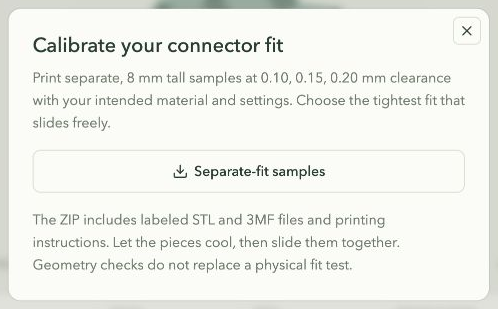
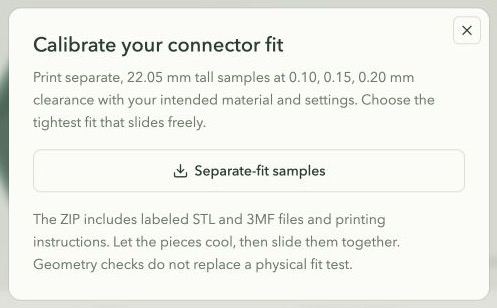
Going back to full-height calibration print

diff --git a/lib/model/calibration.ts b/lib/model/calibration.ts
@@ -14,13 +14,13 @@ import { GeometryEngine } from './geometry';
 import { exportSTL, export3MF } from './export';
 import { PRINT_PART_GAP } from './print-layout';
 /**
- * Crops a validated short north/south joint into two 8 mm tall fit strips.
- * Only straight rail length is shortened; XY fit, back, square rail end and stop match the full pod.
+ * Crops a validated north/south joint into two narrow, full-height fit strips.
+ * Connector length, XY fit, back, square rail end and stop match the full pod.
  * @param engine Shared engine; borrowed variants are not deleted by this function.
  * @param clearances Wall, connector and front-stop spacings to test (mm).
  * @returns Assembled source coupons with cropped coordinates baked in. Both exporters
  * space these bodies apart on the bed; source geometry keeps the original mating pose.
- * Inherited gap/timing fields describe the shortened source pair, not the full-depth pods.
+ * Inherited gap/timing fields describe the full-depth source pair before its XY crop.
  * @throws If the source pair is invalid or cropping fails to produce material.
  */
 export function makeCalibration(
@@ -36,8 +36,8 @@ export function makeCalibration(
   };
   const original = engine.generate(config, CALIBRATION_HEIGHT);
   if (original.errors.length) throw new Error(original.errors.join(' '));
-  // Build the shorter joint before cropping XY; simply chopping a full pod
-  // at Z=8 would discard the rail end and front stop that calibration must test.
+  // Crop only in XY. Keeping the full print height reproduces the connector's
+  // actual contact length and any dimensional variation accumulated along Z.
   const baseBox = engine.api.Manifold.cube([
     14,
     8 + clearances.wallGap,
@@ -118,7 +118,7 @@ export function calibrationZip(
     files[`${name}.3mf`] = export3MF(sample.result, sample.config);
   }
   files['READ-ME.txt'] = strToU8(
-    `HONEYCOMB T-SLOT V2 CALIBRATION\n\nHeight above the bed: ${CALIBRATION_HEIGHT} mm. Square bed edges: full female lips and backing start at Z=0, with no bottom bevel or rail-tip taper. The straight rail is shortened; connector cross-section, back thickness, square rail end and front stop match the pods. This is a quick assembly/fit check, not a test of full-length sliding friction.\n\nThe filename identifies connector clearance per mating surface: ${CALIBRATION_FITS.map((fit) => fit.toFixed(2)).join(', ')} mm. Print one labeled file at a time to keep samples identified.\n\nWall gap: ${config.clearances.wallGap.toFixed(2)} mm. Front-stop clearance: ${config.clearances.axial.toFixed(2)} mm.\n\nUse the printer, material, nozzle and layer profile intended for your display. Print flat backs on the bed, all layers together, supports OFF. Preserve all component positions. Do not use automatic gap closing or merge separate bodies. Compensate elephant foot as appropriate for your calibrated slicer profile.\n\nThe two strips print ${PRINT_PART_GAP} mm apart. After cooling, slide the female strip over the square end of the male rail until their fronts align.\n\nThese are sliding T-slot v2 joints using the original 2 mm walls, with 0.55 mm lips and a thicker head. Print BOTH parts from this revision; do not mix them with v1 T-slots or earlier dovetails. Classic and Arachne have been digitally checked with a 0.4 mm nozzle, 0.20 mm layers, 0.42 mm outer and 0.45 mm inner walls. No thin-wall detection is required in that reference profile. Check that your sliced lips, head and backing remain continuous; other nozzle/line widths need their own check. Start with the separate-fit 0.15 mm pair. Assemble after cooling and check sideways retention while fully engaged. There is no snap latch. Print-in-place is no longer the supported workflow.\n\nChoose the smallest clearance that releases and slides comfortably without tools. Do not force a binding joint. Repeat assembly several times and check for cracking or excessive looseness. Apply the chosen settings to BOTH single pods and assemblies.\n\nThese are geometry-validated starting points, not a claim of physical validation on your printer. STL uses millimeters; 3MF preserves the separate parts and positions.\n`,
+    `HONEYCOMB T-SLOT V2 CALIBRATION\n\nHeight above the bed: ${CALIBRATION_HEIGHT} mm, matching a full pod. Square bed edges: full female lips and backing start at Z=0, with no bottom bevel or rail-tip taper. Connector contact length, cross-section, back thickness, square rail end and front stop match the pods; only the surrounding hexagon walls are cropped to narrow strips. This makes the sample slower than the former short coupon, but gives a representative full-length sliding-friction test.\n\nThe filename identifies connector clearance per mating surface: ${CALIBRATION_FITS.map((fit) => fit.toFixed(2)).join(', ')} mm. Print one labeled file at a time to keep samples identified.\n\nWall gap: ${config.clearances.wallGap.toFixed(2)} mm. Front-stop clearance: ${config.clearances.axial.toFixed(2)} mm.\n\nUse the printer, material, nozzle and layer profile intended for your display. Print flat backs on the bed, all layers together, supports OFF. Preserve all component positions. Do not use automatic gap closing or merge separate bodies. Compensate elephant foot as appropriate for your calibrated slicer profile.\n\nThe two strips print ${PRINT_PART_GAP} mm apart. After cooling, slide the female strip over the square end of the male rail until their fronts align.\n\nThese are sliding T-slot v2 joints using the original 2 mm walls, with 0.55 mm lips and a thicker head. Print BOTH parts from this revision; do not mix them with v1 T-slots or earlier dovetails. Classic and Arachne have been digitally checked with a 0.4 mm nozzle, 0.20 mm layers, 0.42 mm outer and 0.45 mm inner walls. No thin-wall detection is required in that reference profile. Check that your sliced lips, head and backing remain continuous; other nozzle/line widths need their own check. Start with the separate-fit 0.15 mm pair. Assemble after cooling and check sideways retention while fully engaged. There is no snap latch. Print-in-place is no longer the supported workflow.\n\nChoose the smallest clearance that releases and slides comfortably without tools. Do not force a binding joint. Repeat assembly several times and check for cracking or excessive looseness. Apply the chosen settings to BOTH single pods and assemblies.\n\nThese are geometry-validated starting points, not a claim of physical validation on your printer. STL uses millimeters; 3MF preserves the separate parts and positions.\n`,
   );
   return zipSync(files, { level: 6 });
 }

diff --git a/tests/export.test.ts b/tests/export.test.ts
@@ -119,9 +119,12 @@ void test('export rejects invalid geometry and can select a disconnected group',
 void test('calibration archives contain three spaced pairs and separate-fit instructions', () => {
   const files = unzipSync(calibrationZip(engine, initialConfig()));
   assert.equal(Object.keys(files).length, 7);
-  assert.match(strFromU8(files['READ-ME.txt']), /two strips print 2\.5 mm apart/);
+  assert.match(
+    strFromU8(files['READ-ME.txt']),
+    /two strips print 2\.5 mm apart/,
+  );
   for (const fit of [0.1, 0.15, 0.2]) {
-    const stem = `t-slot-v2-separate-fit-8mm-tall-square-base-fit-${fit.toFixed(2)}mm`;
+    const stem = `t-slot-v2-separate-fit-22.05mm-tall-square-base-fit-${fit.toFixed(2)}mm`;
     assert.ok(files[`${stem}.stl`]);
     const sample = unzipSync(files[`${stem}.3mf`]);
     const meta = JSON.parse(strFromU8(sample['Metadata/honeycomb.json']));
@@ -139,12 +142,12 @@ void test('calibration archives contain three spaced pairs and separate-fit inst
     });
     assert.equal(result.parts.length, 2);
     assert.deepEqual(result.errors, []);
-    assert.deepEqual(result.dimensions, [14, 8.3, 8]);
+    assert.deepEqual(result.dimensions, [14, 8.3, 22.05]);
     const printParts = spacePartsForPrinting(result.parts);
     assertSeparated(printParts);
     for (const p of printParts) {
       assert.equal(p.bounds.min[2], 0);
-      assert.equal(p.bounds.max[2], 8);
+      assert.equal(p.bounds.max[2], 22.05);
     }
   }
 });

diff --git a/lib/model/types.ts b/lib/model/types.ts
@@ -56,8 +56,8 @@ export const DIM = {
 export const CONNECTOR_SYSTEM = 't-slot-v2';
 /** Sample normal clearances per mating surface (mm), ordered from tightest to loosest. */
 export const CALIBRATION_FITS = [0.1, 0.15, 0.2] as const;
-/** Coupon height above the bed (mm); keeps the 2.4 mm back, square rail end and 1.6 mm stop. */
-export const CALIBRATION_HEIGHT = 8;
+/** Coupon height above the bed (mm), kept equal to pod depth so sliding contact matches a real pod. */
+export const CALIBRATION_HEIGHT = DIM.depth;
 /** Printer calibration settings shared by standalone pods and assemblies. */
 export interface Clearances {
   /** Separation between neighboring exterior wall planes (mm). */

diff --git a/scripts/check-exports.py b/scripts/check-exports.py
@@ -62,7 +62,8 @@ for file in sorted(models.glob('*.stl')):
 # Sample the first layer, back, mid-depth, rail end and front-stop region.
 # This selection supplements the exact solid sweep checks; it is not exhaustive.
 pod_samples={.2,2.4,10.,19.8,20.2,20.6,22.}
-calibration_samples={.2,2.4,4.,5.8,6.2,6.6,8.}
+# Full-height calibration strips now share the pod's complete connector length.
+calibration_samples=pod_samples
 for name in ['assembly_2x1','assembly_3x3','edited_assembly','calibration_separate_0.10','calibration_separate_0.15','calibration_separate_0.20']:
     samples=calibration_samples if name.startswith('calibration_') else pod_samples
     file=root/f'work/slicing{suffix}'/name/'plate_1.gcode'

diff --git a/README.md b/README.md
@@ -74,9 +74,9 @@ Downloads stay disabled while the model is updating or invalid. If a layout cont
 
 ### 7. Download calibration samples
 
-Click **Calibrate fit** on the right of the export bar. Download **Separate-fit samples** to print two strips apart and slide them together after cooling. The ZIP includes small **8 mm tall** STL and 3MF samples at **0.10, 0.15 and 0.20 mm** clearance, plus printing instructions. Start with 0.15 mm and choose the tightest fit that slides comfortably.
+Click **Calibrate fit** on the right of the export bar. Download **Separate-fit samples** to print two strips apart and slide them together after cooling. The ZIP includes narrow, **22.05 mm tall** STL and 3MF samples at **0.10, 0.15 and 0.20 mm** clearance, plus printing instructions. Their full pod-height connector contact makes sliding friction representative of the assembly, while the cropped surrounding walls still save material. Start with 0.15 mm and choose the tightest fit that slides comfortably.
 
-![Calibration dialog with short separate-fit sample downloads](docs/images/calibration.png)
+![Calibration dialog with full-height separate-fit sample downloads](docs/images/calibration.png)
 
 ## Printing your display
 
